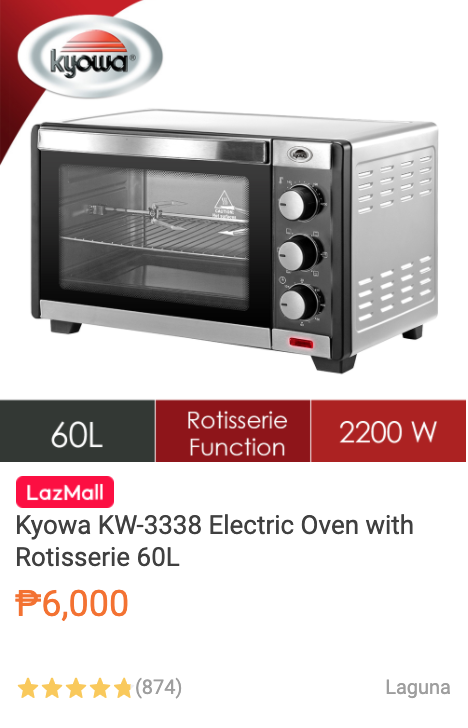
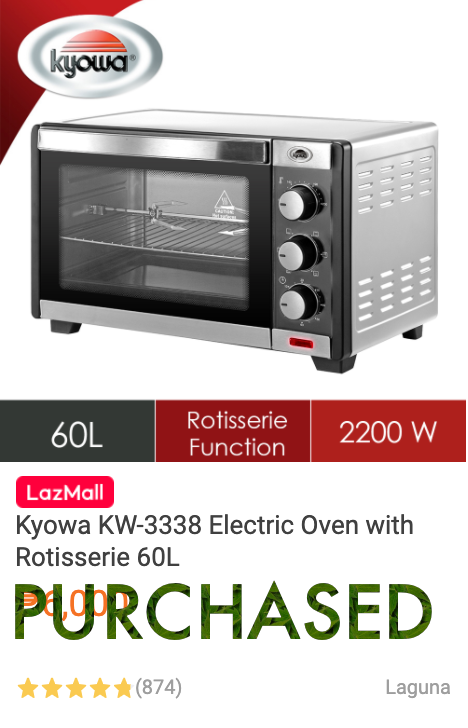
set oven purchased (in knp) apple ai message

Changed region(s): [[0.0299, 0.7857, 0.9274, 0.8764]]

diff --git a/messages.html b/messages.html
@@ -189,6 +189,17 @@ Godbless.
               Inchumo Chagao
             </span>
           </blockquote>
+          <blockquote class="otro-blockquote otro-blockquote--messages otro-blockquote--bride">
+            Dearest Jelai and Dar, <br />
+            Congratulations! Wishing you peace, joy, and hapiness today and forever!<br /><br />
+            "And now these three remain: faith, hope and love. But the greatest of these is love." <br />
+            - 1 Coritnhians 13:13 <br /><br />
+            We are Happy for you! stay in Love! Godbless you! Huggsss
+
+            <span class="otro-blockquote__name">
+              Apple Rances & Ai Lacambra
+            </span>
+          </blockquote>
         </div>
 
 

diff --git a/gift-registry.html b/gift-registry.html
@@ -173,6 +173,7 @@
           </a>
         </div>
         <div class="col s12 m3 gift">
+          <div class="gift--purchased"></div>
           <a href="https://www.lazada.com.ph/products/kyowa-kw-3338-electric-oven-with-rotisserie-60l-i263137843-s366056848.html?spm=a2o4l.searchlist.list.1.54e71d57aH5SFg&search=1"
             target="_blank">
             <img src="/img/gift/ws-oven.png" width="460" height="700" alt=""
